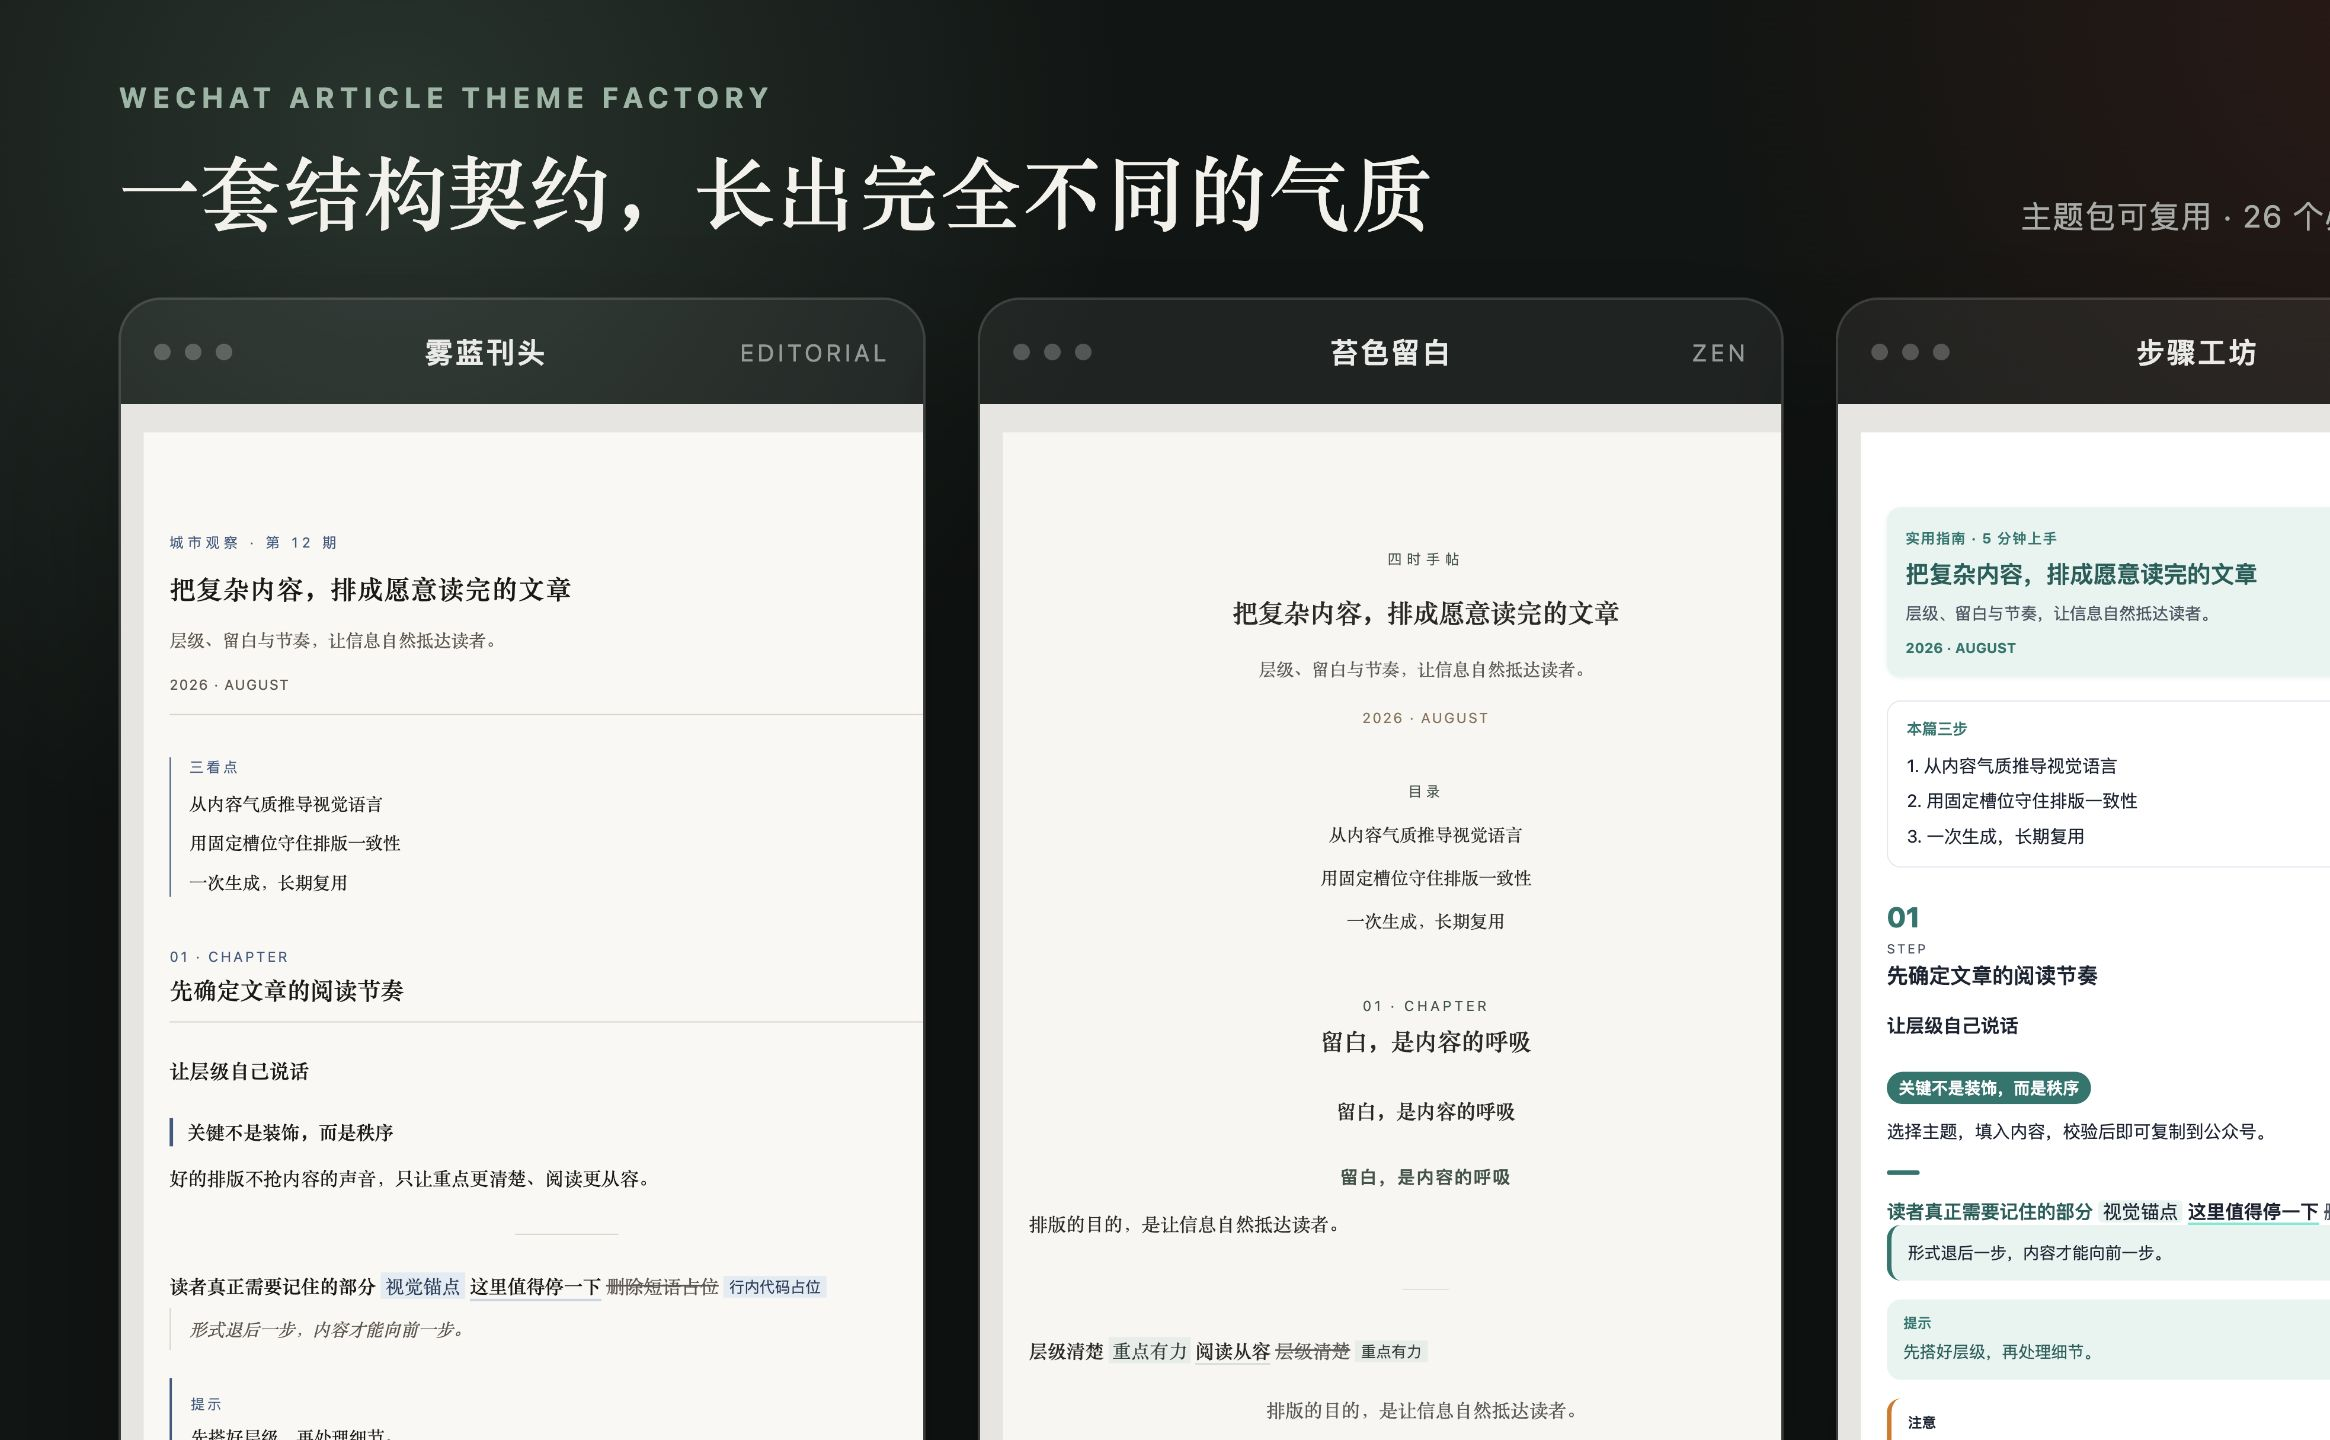
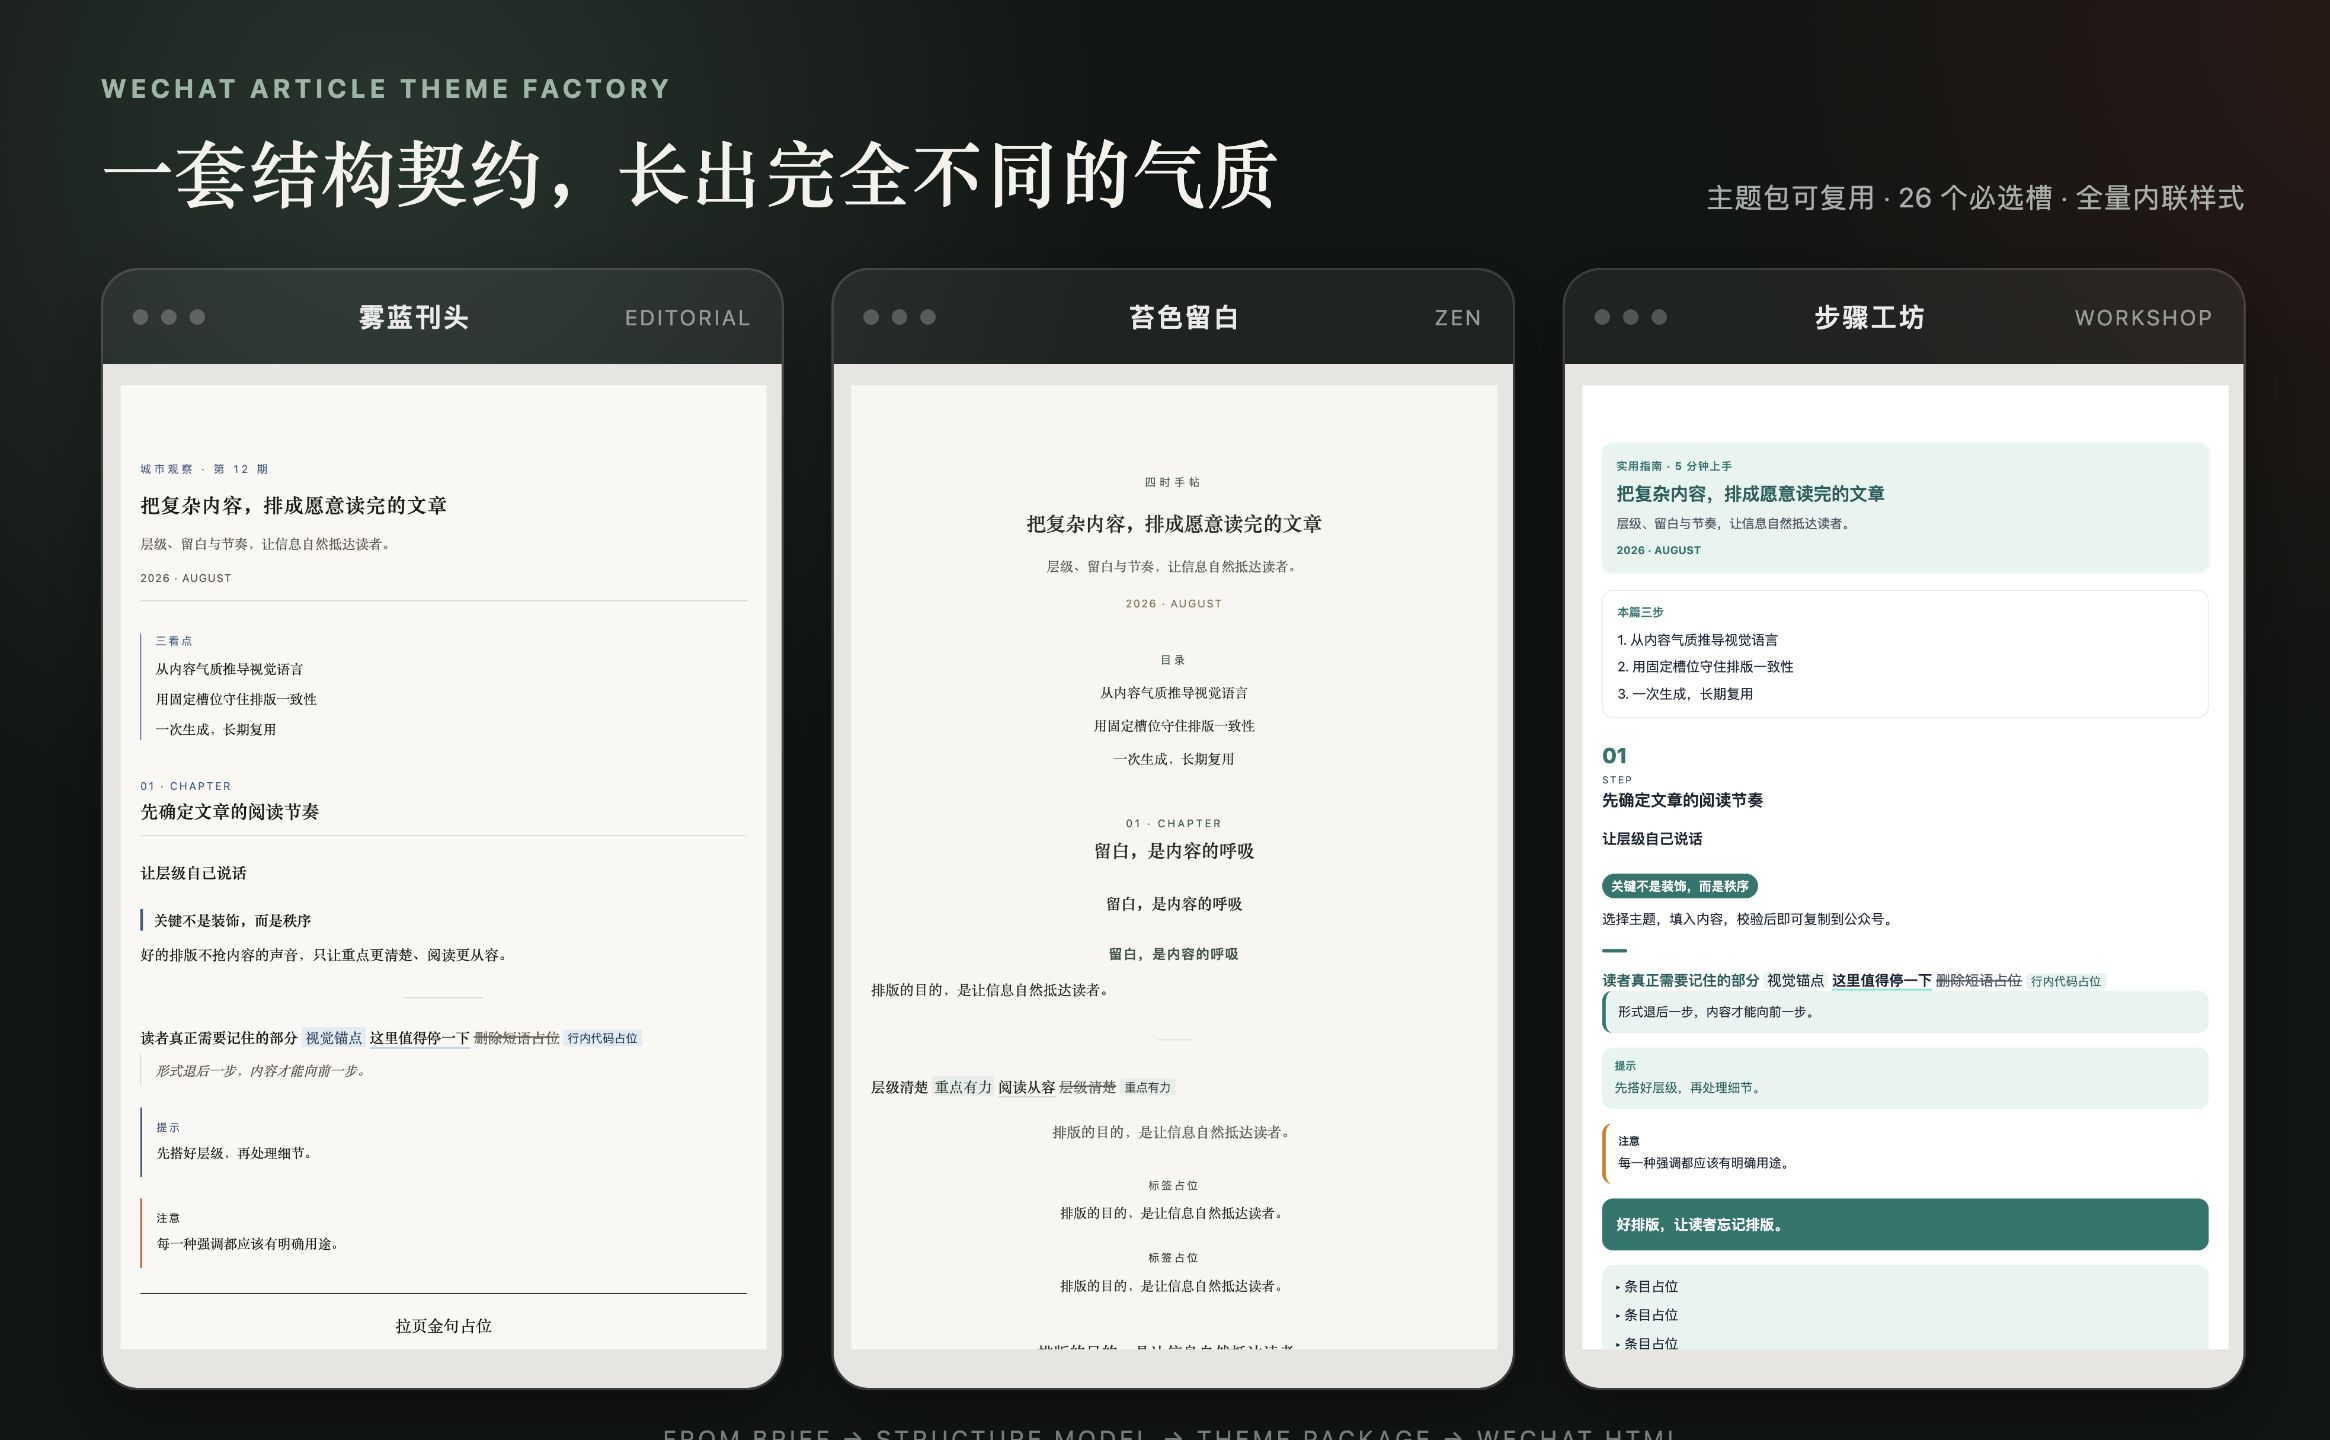
fix: prevent README showcase image cropping

diff --git a/assets/readme-showcase.html b/assets/readme-showcase.html
@@ -47,14 +47,22 @@
     body.single .gallery { display: block; }
     body.single .card { display: none; border-radius: 0; }
     body.single .card.active { display: block; }
-    body.hires { padding-left: calc(50px * var(--density)); }
-    body.hires main {
-      margin: 0;
-      transform: scale(var(--density));
-      transform-origin: 0 0;
-    }
-    body.hires:not(.single) main { width: 1065px; }
-    body.hires.single { padding-left: 0; }
+    body.hires.single main { zoom: var(--density); }
+    body.hires:not(.single) main { width: 1810px; margin-left: 85px; margin-right: 0; padding: 61px 0 50px; }
+    body.hires:not(.single) header { margin-bottom: 40px; }
+    body.hires:not(.single) .eyebrow { margin-bottom: 14px; font-size: 22px; }
+    body.hires:not(.single) h1 { font-size: 61px; }
+    body.hires:not(.single) .promise { font-size: 23px; }
+    body.hires:not(.single) .gallery { gap: 40px; }
+    body.hires:not(.single) .card { border-width: 2px; border-radius: 32px; }
+    body.hires:not(.single) .bar { height: 79px; padding: 0 25px; }
+    body.hires:not(.single) .dots { gap: 11px; }
+    body.hires:not(.single) .dot { width: 13px; height: 13px; }
+    body.hires:not(.single) .name { font-size: 22px; }
+    body.hires:not(.single) .tag { font-size: 18px; }
+    body.hires:not(.single) .viewport { height: 864px; }
+    body.hires:not(.single) iframe { transform: scale(.756); }
+    body.hires:not(.single) footer { margin-top: 29px; font-size: 20px; }
   </style>
   <script>if (new URLSearchParams(location.search).has("theme")) document.body?.classList.add("single");</script>
 </head>

diff --git a/README.md b/README.md
@@ -8,13 +8,13 @@
 
 ![三套公众号排版主题的真实内容效果：雾蓝刊头、苔色留白与步骤工坊](assets/readme/theme-showcase.jpg)
 
-<p align="center"><sub>同一套结构契约，可以生长出杂志感、东方留白与实用教程等不同气质。</sub></p>
+<p align="center"><sub>总览用于感受整体气质；点击下方任一单图，可查看清晰的原尺寸排版细节。</sub></p>
 
 <table>
   <tr>
-    <td width="33%" align="center"><img src="assets/readme/mist-masthead.jpg" alt="雾蓝刊头真实文章首屏"><br><sub>雾蓝刊头 · 克制杂志感</sub></td>
-    <td width="33%" align="center"><img src="assets/readme/moss-zen.jpg" alt="苔色留白真实文章首屏"><br><sub>苔色留白 · 东方长呼吸</sub></td>
-    <td width="33%" align="center"><img src="assets/readme/step-workshop.jpg" alt="步骤工坊真实文章首屏"><br><sub>步骤工坊 · 清晰行动感</sub></td>
+    <td width="33%" align="center"><a href="assets/readme/mist-masthead.jpg"><img src="assets/readme/mist-masthead.jpg" alt="雾蓝刊头真实文章首屏"></a><br><sub>雾蓝刊头 · 克制杂志感（点击查看原图）</sub></td>
+    <td width="33%" align="center"><a href="assets/readme/moss-zen.jpg"><img src="assets/readme/moss-zen.jpg" alt="苔色留白真实文章首屏"></a><br><sub>苔色留白 · 东方长呼吸（点击查看原图）</sub></td>
+    <td width="33%" align="center"><a href="assets/readme/step-workshop.jpg"><img src="assets/readme/step-workshop.jpg" alt="步骤工坊真实文章首屏"></a><br><sub>步骤工坊 · 清晰行动感（点击查看原图）</sub></td>
   </tr>
 </table>
 
